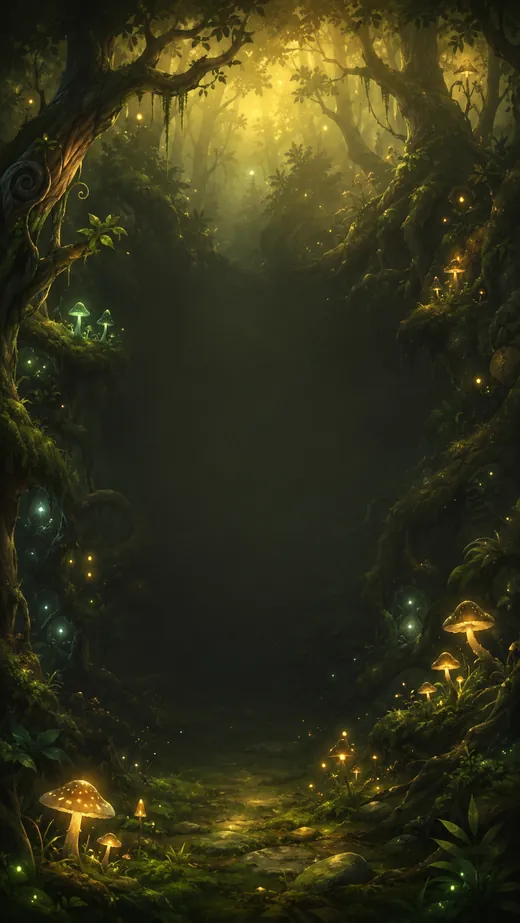
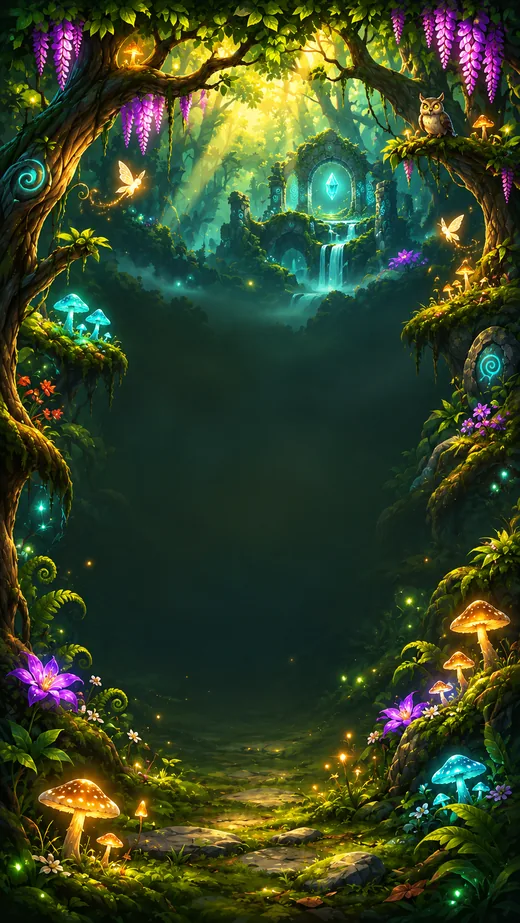
New Enchanted Forest and Crystal Caves artwork (same as in game)
Claude-Session: https://claude.ai/code/session_01Lpi7x4bRAP269dr1pr6KFx

diff --git a/index.html b/index.html
@@ -291,8 +291,8 @@ section { padding: clamp(64px, 10vw, 120px) 0; }
     <h2>Each world has its own weather</h2>
     <p class="lede">Six worlds so far, with more on the way. Ten levels each, a boss at the end, and world events that change the rules for a few seconds. Here are the first two. The rest, you'll have to reach yourself.</p>
     <div class="strip">
-      <article class="world"><img src="assets/world1.webp" alt="" loading="lazy"><div class="cap"><h3>Enchanted Forest</h3><p>Wind, falling leaves and a rain that fizzles bombs.</p></div></article>
-      <article class="world"><img src="assets/world2.webp" alt="" loading="lazy"><div class="cap"><h3>Crystal Caves</h3><p>Falling rocks, blackouts and monsters frozen in crystal.</p></div></article>
+      <article class="world"><img src="assets/world1.webp?v=2" alt="" loading="lazy"><div class="cap"><h3>Enchanted Forest</h3><p>Wind, falling leaves and a rain that fizzles bombs.</p></div></article>
+      <article class="world"><img src="assets/world2.webp?v=2" alt="" loading="lazy"><div class="cap"><h3>Crystal Caves</h3><p>Falling rocks, blackouts and monsters frozen in crystal.</p></div></article>
       <article class="world locked"><img src="assets/world3.webp" alt="" loading="lazy"><div class="lock" aria-hidden="true"></div><div class="cap"><h3>???</h3><p>Beat World 2 to find out.</p></div></article>
       <article class="world locked"><img src="assets/world4.webp" alt="" loading="lazy"><div class="lock" aria-hidden="true"></div><div class="cap"><h3>???</h3><p>Beat World 3 to find out.</p></div></article>
       <article class="world locked"><img src="assets/world5.webp" alt="" loading="lazy"><div class="lock" aria-hidden="true"></div><div class="cap"><h3>???</h3><p>Beat World 4 to find out.</p></div></article>
